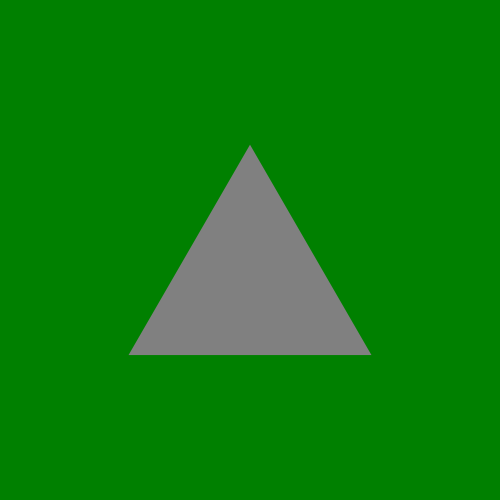
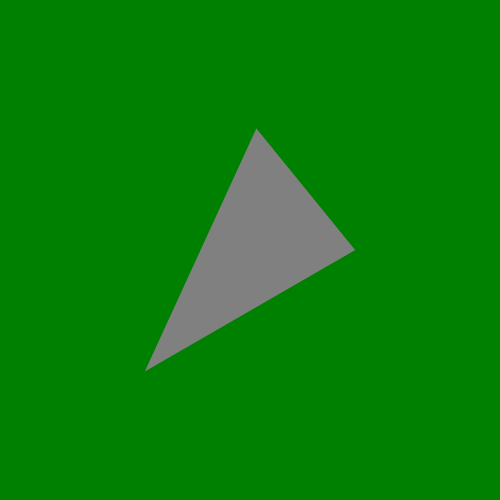
basic crossover - only single level

Changed region(s): [[0.24, 0.24, 0.75, 0.75], [0.45, 0.33, 0.48, 0.39]]

diff --git a/classes.py b/classes.py
@@ -96,11 +96,11 @@ class Multiply(Operator):
 class Divide(Operator):
 	opsStr = "/"
 
-test = Triangle(Skew(2, 30), Brightness(.5)) 
-print (str(test))
+parent1 = Triangle(Skew(20, 30), Brightness(.5)) 
+print (str(parent1))
 
-test2 = Square(Transform(2, 30), Flip(.5))
-print (str(test2))
+parent2 = Square(Transform(45, 100), Flip(5))
+print (str(parent2))
 
 def templateBuild(object):
 	return """
@@ -123,13 +123,35 @@ def createImage(code):
 
 r = random.uniform(0, 50)
 
-name = test
 
-if (r > 25):
-	name = test2 
+list1 = str(parent1).split()
+list2 = str(parent2).split()
+# list5 = list1
 
+# for index, item in enumerate(list2):
+# 	print(index, item)
+# 	print(list5[index])
+# 	list5[index] = list2[index]
 
-createImage(templateBuild(name))
+# child2 = ' '.join(word for word in list5)
+
+# print("here", child2)
+
+# if have two of same size, will do crossover
+def swap(l1, l2):
+	l3 = l1
+
+	for index,item in enumerate(l2):
+		ran = random.uniform(0, 5)
+		if (ran >= 4):
+			l3[index] = l2[index]
+
+	return l3
+
+temp = swap(list1, list2)
+child = ' '.join(word for word in temp)
+
+createImage(templateBuild(child))
 
 # def createImage2(code):
 # 	if (not os.path.exists("output")):
@@ -142,9 +164,8 @@ createImage(templateBuild(name))
 
 # createImage2(templateBuild(test2))
 
-print(str(templateBuild(test)))
+print(str(templateBuild(child)))
 
-print(str(templateBuild(test2)))
 
 
 # will randomly pick left or right first, set left to current
